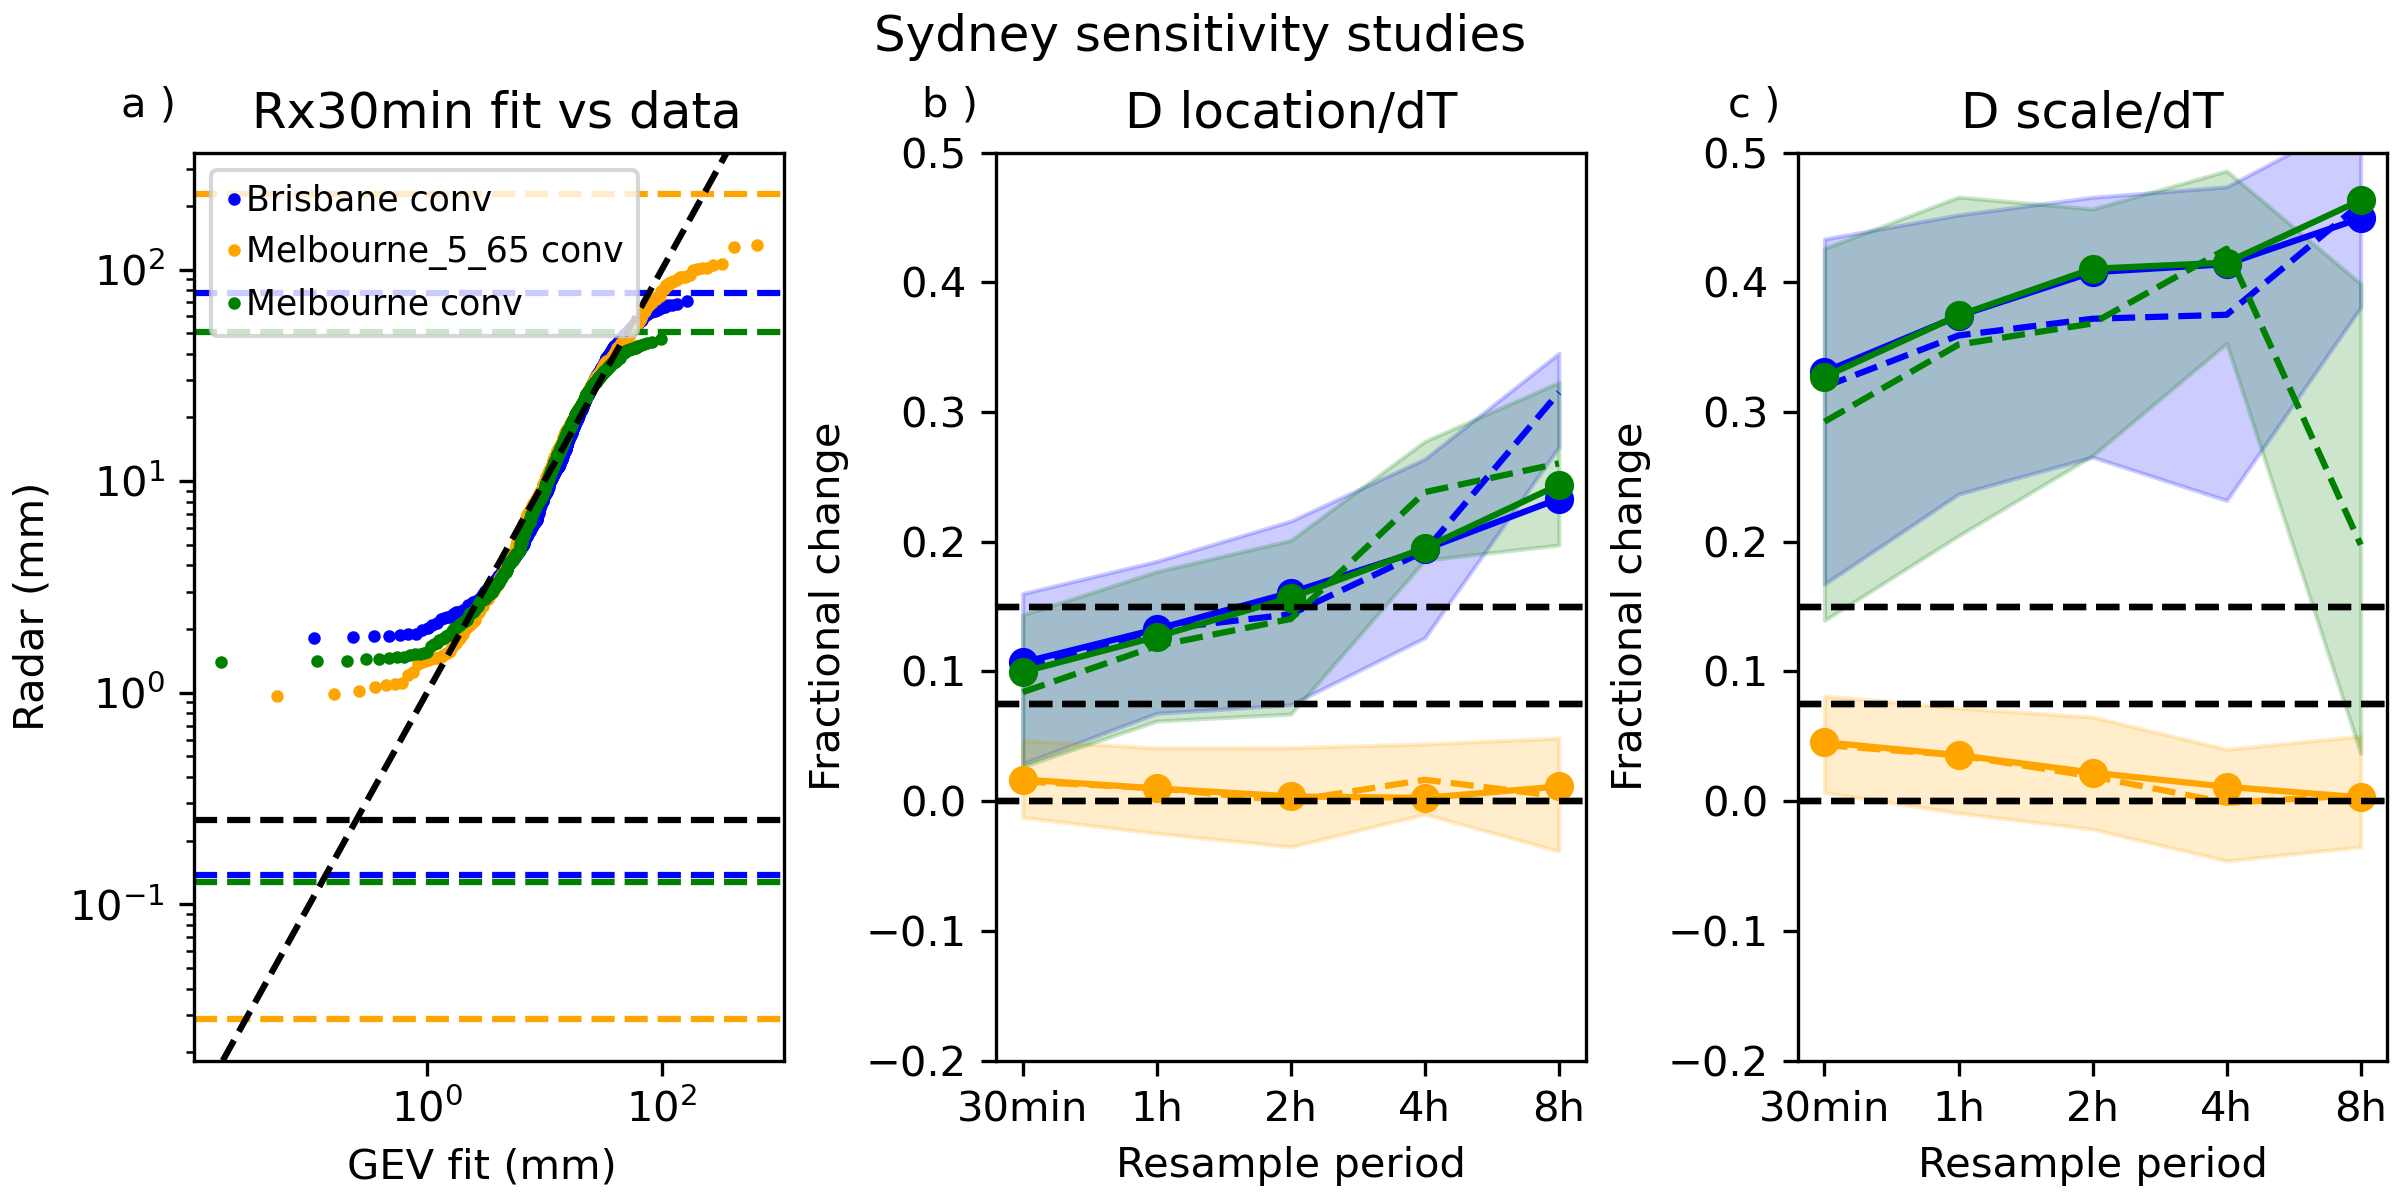
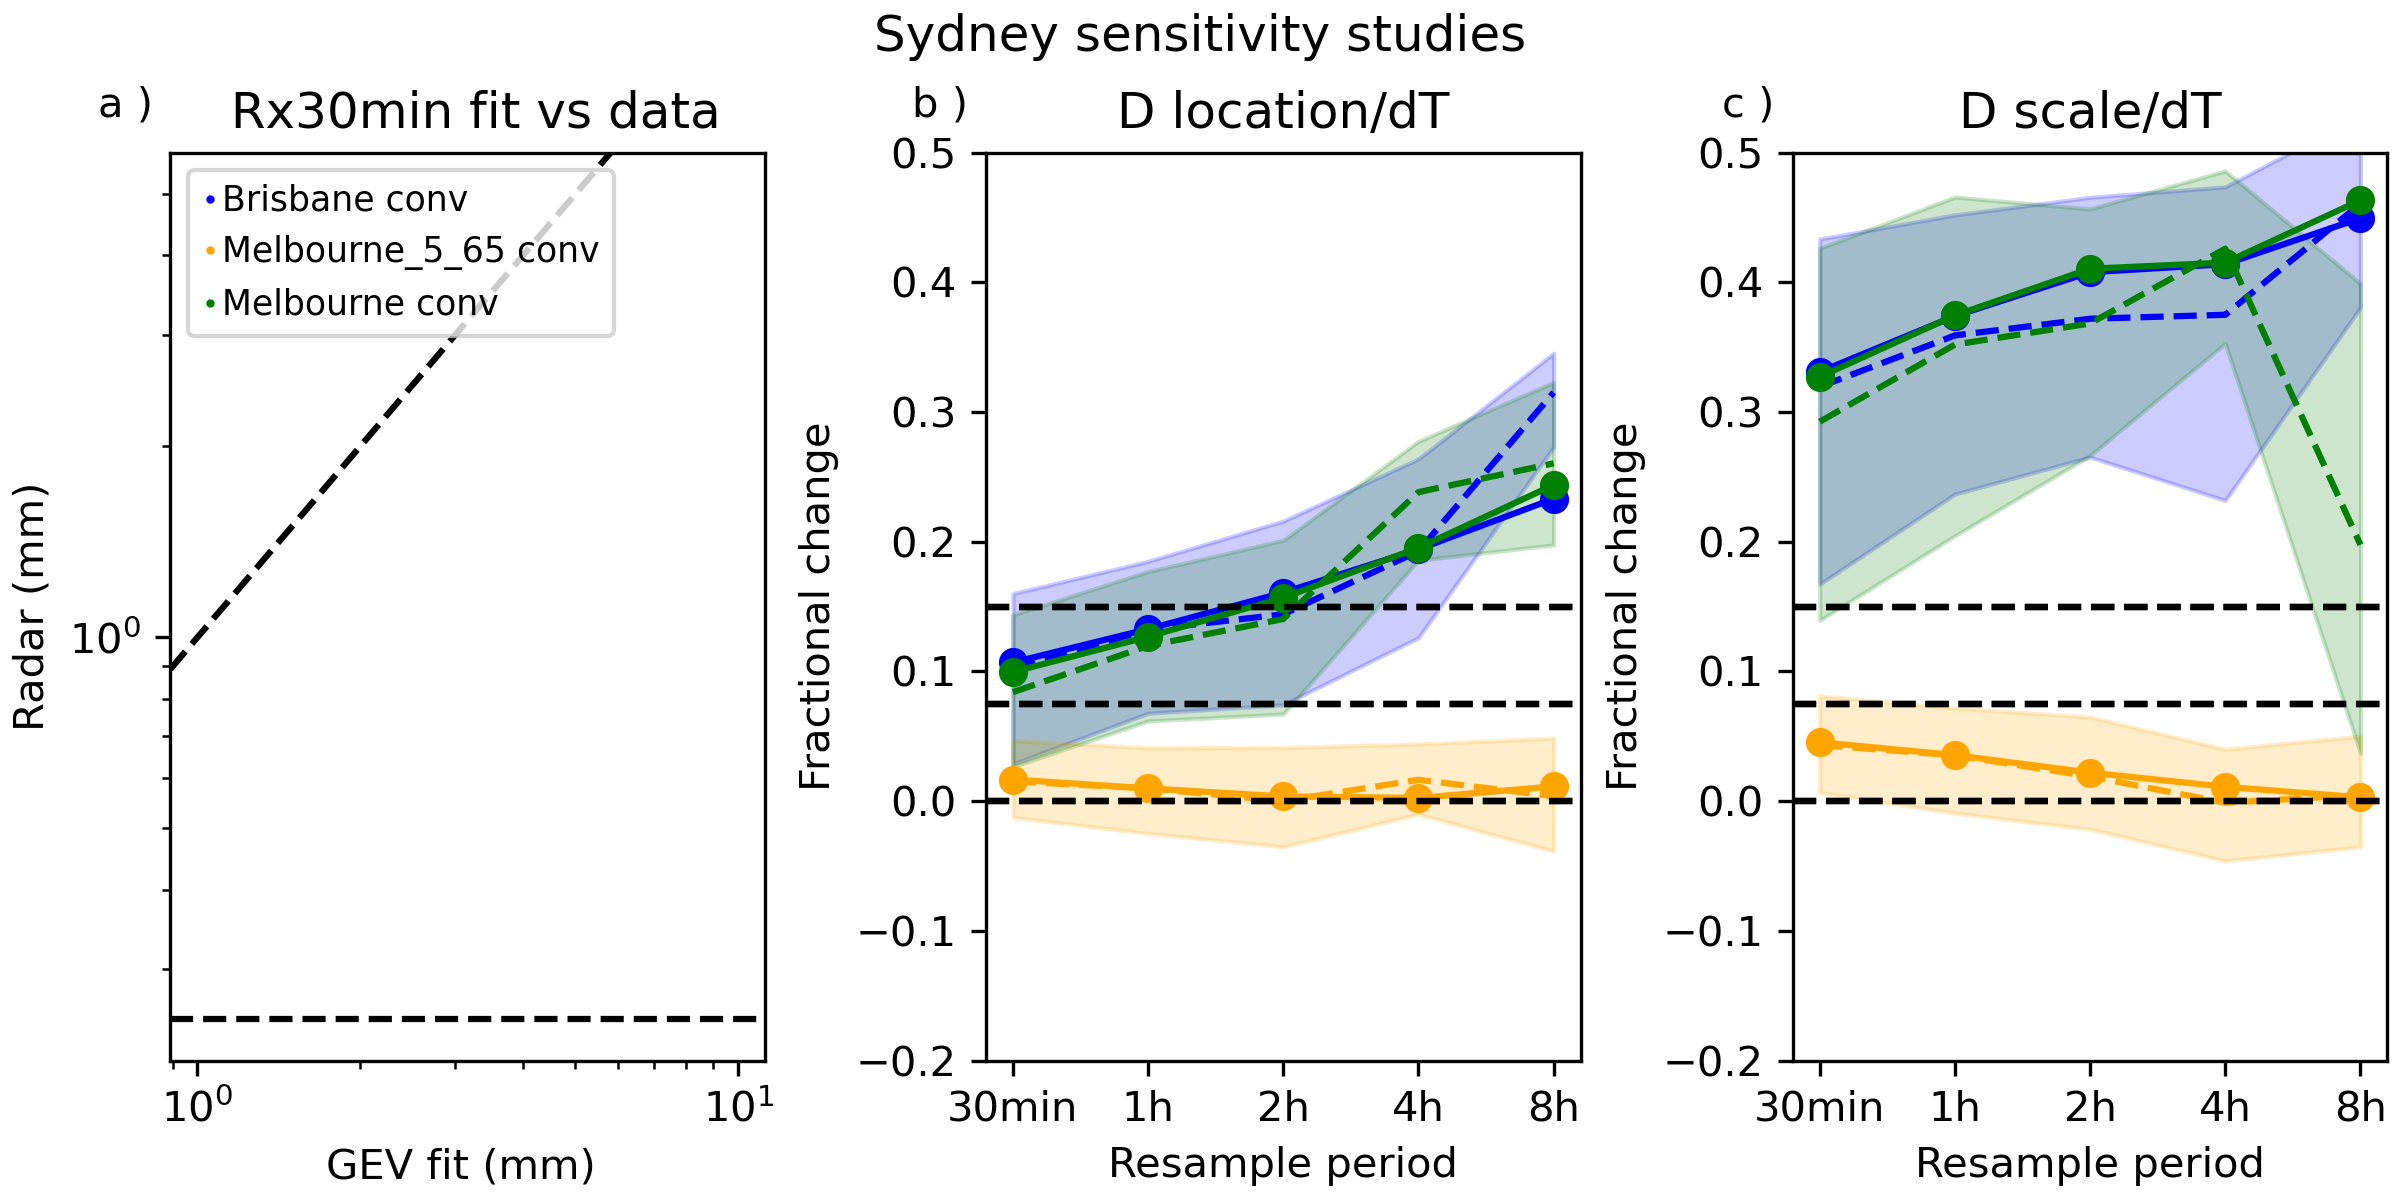
Plotting and a bit of a reorg.

diff --git a/plots/plot_Sydney_sens_studies.py b/plots/plot_Sydney_sens_studies.py
@@ -1,0 +1,92 @@
+# plot sensitivity studies for Sydney.
+# Calibration -- melbourne and brisabne + melbourne calibration with larger dbz range.
+
+import ausLib
+import pathlib
+import xarray
+import matplotlib.pyplot as plt
+import scipy.stats
+import pandas as pd
+import commonLib
+import numpy as np
+from R_python import gev_r
+
+my_logger = ausLib.setup_log(1)
+seas_files = list((ausLib.data_dir / 'processed').glob('Sydney_rain*/seas_mean*_Sydney_rain_*_DJF.nc'))
+seas_mean = {}
+seas_gev_fit = dict()
+gev_t_fit = dict()
+gev_t_fit_bs = dict()
+rain_range = dict()
+recreate_fit = False
+for file in seas_files:
+    name = file.parent.name.replace('Sydney_rain_', '').capitalize() + ' conv'
+    da = xarray.open_dataset(file).max_rain_rate
+    resample_hours = pd.to_timedelta(da.resample_prd) / pd.Timedelta(1, 'h')
+    # and convert it back to a dataarray
+    resample_hours = xarray.DataArray(resample_hours, coords={'resample_prd': da.resample_prd})
+    seas_mean[name] = da * resample_hours
+    # and do a single param fit too all the data..
+    gev_fit_file = file.parent / 'fits' / ('gev_fit_' + file.name)
+    stacked = da.stack(idx=['x', 'y', 'time']).dropna('idx')
+    stacked = stacked.where(stacked > 0.5)
+    seas_gev_fit[name] = gev_r.xarray_gev(stacked, dim='idx',file=gev_fit_file,recreate_fit=recreate_fit)
+    my_logger.info(f'Loaded {name} and fit data')
+
+    # get in the gev t fit data
+    gev_t_file = file.parent / 'fits' / 'gev_fit_temp.nc'
+    ds = xarray.open_dataset(gev_t_file).mean('sample')
+    gev_t_fit[name] = ds.Parameters.load()
+    # and the bootstrap.
+    gev_t_bs_file = file.parent / 'fits' / 'gev_fit_temp_bs.nc'
+    ds = xarray.open_dataset(gev_t_bs_file).mean('sample')
+    gev_t_fit_bs[name] = ds.Parameters.load()
+
+    my_logger.info(f'Loaded {name}')
+
+## now to plot them
+prd = '30min'
+label = commonLib.plotLabel()
+fig, (ax_fit, ax_change_loc, ax_change_sc) = plt.subplots(1, 3, figsize=(8, 4),
+                                                          clear=True, layout='constrained', num='Sydney_sens'
+                                                          )
+
+for (name, parameters), col in zip(seas_mean.items(), ['blue', 'orange', 'green']):
+
+
+    gev = scipy.stats.genextreme(*seas_gev_fit[name].Parameters.sel(parameter=['shape','location', 'scale'],resample_prd=prd))
+    radar_data = seas_mean[name].sel(resample_prd=prd).stack(idx=['x','y','time'])
+    osm, osr = scipy.stats.probplot(radar_data, dist=gev,fit=False)
+    ax_fit.plot(osm[0], osm[1], label=name, ms=2, marker='.', linestyle='None', color=col)
+
+ax_fit.axline((5.0, 5.0), slope=1.0, color='black', linestyle='--')
+ax_fit.axhline(0.5 * float(resample_hours.sel(resample_prd=prd)), color='black', linestyle='--')
+ax_fit.set_xlabel(f'GEV fit (mm) ')
+ax_fit.set_ylabel('Radar (mm)')
+ax_fit.set_xscale('log')
+ax_fit.set_yscale('log')
+ax_fit.set_title(f' Rx{prd} fit vs data')
+ax_fit.legend(loc='upper left', fontsize='small', handletextpad=0.1, handlelength=0.5)
+## now to plot the gev ratios.
+for (name, parameters), col in zip(gev_t_fit.items(), ['blue', 'orange', 'green']):
+    for p, ax_change in zip(['location', 'scale'], [ax_change_loc, ax_change_sc]):
+        dp = f'D{p}_Tanom'
+        ds = parameters.sel(parameter=dp) / parameters.sel(parameter=p)
+        ds_bs = gev_t_fit_bs[name].sel(parameter=dp) / gev_t_fit_bs[name].sel(parameter=p)
+        q = ds_bs.quantile([0.1, 0.9], dim='bootstrap_sample')
+        ax_change.fill_between(q.resample_prd, q.isel(quantile=0), q.isel(quantile=-1), color=col, alpha=0.2)
+        ds_bs.mean('bootstrap_sample').plot(ax=ax_change, color=col, linestyle='--')
+        ds.plot(ax=ax_change, label=name, color=col, marker='o')
+        ax_change.set_title(f'D {p}/dT')
+        ax_change.set_xlabel('Resample period')
+        ax_change.set_ylabel('Fractional change')
+        for v in [0, 0.075, 0.15]:
+            ax_change.axhline(v, color='k', linestyle='--')
+        ax_change.set_ylim(-0.2, 0.5)
+fig.suptitle('Sydney sensitivity studies')
+# add labels
+for ax in [ax_fit, ax_change_loc, ax_change_sc]:
+    label.plot(ax)
+
+fig.show()
+commonLib.saveFig(fig)

diff --git a/plots/plot_gev_fits.py b/plots/plot_gev_fits.py
@@ -21,8 +21,8 @@ uncert_sd_scale = scipy.stats.norm().isf(uncert)  # roughly 5-95% range
 quants = [uncert, 0.5, 1 - uncert]
 # mornington looks weird – need to examine it more carefully. Prob look at events. Some oddities in the fit.
 # so filtering out shapes < -10. I think it is problems with the fit.
-end_name_sens = '_rain_melbourne'  # calibration
-end_name = '_rain_brisbane'
+end_name_sens = '_rain_brisbane'  # calibration
+end_name = '_rain_melbourne'
 
 
 def trim(ds: xarray.Dataset) -> xarray.DataArray:
@@ -151,6 +151,7 @@ for site, ax in axs.items():
     gev_be_sens = best_est_sens[site]
     ds_sens = gev_r.xarray_gev_isf(gev_be_sens.Parameters, pv).drop_sel(resample_prd='8h') * resample_hours
     # drop 8h and convert to accum over period.
+
     #lines = ds.plot.line(x='pvalues', ax=ax, add_legend=False,colors=colors)
 
     gev_bs = gev_r.xarray_gev_isf(bootstrap[site].Parameters, pv) * resample_hours
@@ -186,3 +187,46 @@ fig.legend(lines, sd.resample_prd.values, ncol=2, loc=(0.4, 0.9), fontsize='smal
 fig.suptitle('Return values (mm/h)')
 fig.show()
 commonLib.saveFig(fig)
+
+## plot the parameters for the regions.
+fig, axs = ausLib.std_fig_axs(f'GEV_params', sharex=True, sharey=True)
+for site, ax in axs.items():
+    params = best_est[site].Parameters.drop_sel(resample_prd='8h')
+    params_sens = best_est_sens[site].Parameters.drop_sel(resample_prd='8h')
+    params_bs = bootstrap[site].Parameters.drop_sel(resample_prd='8h')
+    uncert_sd = params_bs.std(dim='bootstrap_sample')
+    for p, m, c in zip(['location', 'scale','shape'], ['o', 'h','*'], ['blue', 'red','orange']):
+        mn = params.sel(parameter=p)
+        mn_sens = params_sens.sel(parameter=p)
+        q_bs = params_bs.sel(parameter=p).quantile(quants,'bootstrap_sample')
+        if p == 'shape':
+            mn = -mn
+            mn_sens = -mn_sens
+            q_bs = -q_bs.reindex(quantile=list(reversed(q_bs['quantile'])) ) # get into Cole's convention.
+            a=ax.twinx()
+            a.set_ylabel('Shape',color=c)
+            a.set_ylim(-0.8,0.8)
+            a.axhline(0.0,linestyle='dotted',color=c)
+        else:
+            a=ax
+            a.set_ylabel('Loc/Scale (mm)')
+            mn = mn*resample_hours
+            mn_sens = mn_sens*resample_hours
+            sd = sd*resample_hours
+            a.set_ylim(0,20.)
+        err = np.abs(q_bs.isel(quantile=[0,-1])-q_bs.sel(quantile=0.5))
+        a.errorbar(mn.resample_prd, mn, yerr=err,
+                    linestyle='--', color=c, capsize=5, elinewidth=2,label=p )
+        a.scatter(mn_sens.resample_prd, mn_sens, s=30, color=c, marker='*')
+        a.set_xlabel('Accum Prd')
+        a.label_outer()
+
+
+    ax.set_title(site)
+
+
+fig.suptitle('Gev Params')
+fig.show()
+commonLib.saveFig(fig)
+
+

diff --git a/plots/plot_hr_area.py b/plots/plot_hr_area.py
@@ -1,0 +1,61 @@
+# plot hour and area of max rain rate.
+# will use the seas_mean data.
+import matplotlib.pyplot as plt
+import xarray
+import ausLib
+import scipy.stats
+import numpy as np
+
+import commonLib
+import pathlib
+import pandas as pd
+
+my_logger = ausLib.setup_log(1)
+end_name_sens = '_rain_brisbane'  # calibration
+end_name = '_rain_melbourne'
+
+time_day=dict()
+time_day_sens=dict()
+day_of_season=dict()
+prd='1h'
+for site in ausLib.site_numbers.keys():
+    name = site + end_name
+    seas_mean = xarray.open_dataset(ausLib.data_dir / f'processed/{name}/seas_mean_{name}_DJF.nc')
+    lon = ausLib.site_info(ausLib.site_numbers[site]).iloc[0].loc['site_lon']
+    t= seas_mean.sel(resample_prd=prd).time_max_rain_rate.stack(idx=['x', 'y', 'time']).dropna('idx').load()
+    time_day[site] = (t.dt.hour + t.dt.minute / 60. +lon/15.)%24 # approx for local solar hour.
+    dates = pd.to_datetime(t)
+    season_year = dates.year - (dates.month != 12)
+    season_start = pd.to_datetime(dict(year=season_year, month=12, day=1))
+
+    day_of_season[site] = ((dates-season_start)/pd.Timedelta(1,'D')).astype(int)# days since 1st of december
+    # sens case
+    name = site + end_name_sens
+    seas_mean = xarray.open_dataset(ausLib.data_dir / f'processed/{name}/seas_mean_{name}_DJF.nc')
+    lon = ausLib.site_info(ausLib.site_numbers[site]).iloc[0].loc['site_lon']
+    t= seas_mean.sel(resample_prd=prd).time_max_rain_rate.stack(idx=['x', 'y', 'time']).dropna('idx').load()
+    time_day_sens[site] = (t.dt.hour + t.dt.minute / 60. +lon/15.)%24 # approx for local solar hour.
+    my_logger.info(f'Loaded {name}')
+
+## now to plot them
+fig, axs = ausLib.std_fig_axs(f'day_hour_dist', sharex=True, sharey=True)
+for site, ax in axs.items():
+    bins,edges,patches=time_day[site].plot.hist(bins=np.arange(0, 24.5, 1), density=True,ax=ax,histtype='step',linewidth=2)
+    mode = int(edges[np.argmax(bins)])
+    time_day_sens[site].plot.hist(bins=np.arange(0, 24.5, 1), density=True, ax=ax, histtype='step',linewidth=2,color='red')
+    ax.set_title(site )
+    ax.set_xlabel('Local Solar Hour')
+    ax.set_ylabel('Probability Density')
+    ax.text(0.1,0.8,f'Peak:{mode:2d}:00' ,transform=ax.transAxes,va='bottom',ha='left')
+    ax.label_outer()
+    ax2=ax.twiny()
+    ax2.set_xlabel('Day of Year',color='green')
+    bins, edges, patches = day_of_season[site].to_xarray().plot.hist(bins=np.arange(0,100,10), density=True, ax=ax2, histtype='step',
+                                                    linewidth=2,color='green')
+    ax2.set_title('')
+    ax2.label_outer()
+fig.suptitle('Hour of Day/Day of Season')
+fig.show()
+commonLib.saveFig(fig)
+
+

diff --git a/plots/plot_resoln_fraction.py b/plots/plot_resoln_fraction.py
@@ -1,0 +1,54 @@
+# plot the sampling resolution and fraction of samples from the seasonal means.
+import ausLib
+import matplotlib.pyplot as plt
+import xarray
+import commonLib
+import numpy as np
+# get in the data first.
+my_logger = ausLib.setup_log(1)
+conversion='_rain_melbourne'
+datasets=dict()
+
+for site in ausLib.site_numbers.keys():
+    name = site + conversion
+    event_file = ausLib.data_dir / f'processed/{name}/seas_mean_{name}_DJF.nc'
+    if not event_file.exists():
+        raise FileNotFoundError(f'No event file for {site} with {event_file}')
+    datasets[site] = xarray.open_dataset(event_file)  # median extreme event
+    my_logger.debug(f'Loaded {site} from {event_file}')
+radar_stns = ausLib.read_radar_file('meta_data/long_radar_stns.csv')
+my_logger.info('Loaded all data')
+
+## now to plot the data.
+fig, axes = ausLib.std_fig_axs(f'resoln_fraction', sharey=True,sharex=True)
+for site, ax in axes.items():
+    sample_resolution = datasets[site].sample_resolution.load()
+    sample_resolution.dt.total_seconds().plot(ax=ax,
+                                              color='k',marker='o',linestyle='None',ms=3)
+    print(site, sample_resolution.time.max().dt.year.values)
+    ax.set_title(site)
+    ax.set_xlabel('Time')
+    ax.set_ylabel('Resolution (s)')
+    ax.tick_params(axis='x', labelsize='small',rotation=45) # set small font!
+    ax.set_xlabel('Year')
+    ax.label_outer()
+    # add on meta-data to show when things change,.
+    records = radar_stns.loc[radar_stns['id'] == ausLib.site_numbers[site]]
+    lim = np.array(axes[site].get_ylim())
+    y = 0.75 * lim[1] + 0.25 * lim[0]
+    for name, r in records.iterrows():
+        x = np.datetime64(r['postchange_start'])
+        axes[site].axvline(x, color='red', linestyle='--')
+        axes[site].text(x, y, r.radar_type, ha='left', va='center', fontsize='x-small', rotation=90)
+    # add second axis for fraction
+    ax2 = ax.twinx()
+    fraction = datasets[site].fraction.load()
+    fraction.plot(ax=ax2,drawstyle='steps-pre',marker='+',linestyle='None',ms=3,color='purple')
+    ax2.set_ylabel('Fraction',color='purple')
+    ax2.set_title('')
+    ax2.label_outer()
+    ax2.set_ylim(0.75,1.05)
+
+fig.suptitle(f'Sampling resolution')
+fig.show()
+commonLib.saveFig(fig)

diff --git a/plot_example_gev.py b/plot_example_gev.py
@@ -1,0 +1,30 @@
+# plot GEV for shapes of -0.5, 0 and 0.5
+
+import matplotlib.pyplot as plt
+import scipy.stats
+import numpy as np
+import commonLib
+from matplotlib.ticker import ScalarFormatter,LogLocator
+
+fig,axs = plt.subplots(nrows=1,ncols=1,figsize=(9,5),num='example_gev',clear=True,layout='constrained')
+shapes = [-1,-0.5,0,0.5,1]
+colors = ['purple','blue','orange','green','brown']
+x = np.geomspace(1e-2,0.5,100)
+for shape,color in zip(shapes,colors):
+    gev = scipy.stats.genextreme(c=shape)
+    axs.plot(1.0/x,gev.isf(x),color=color,label=f'shape={-shape}') # python convention different to Cole book
+axs.set_xscale('log')
+axs.set_yscale('log')
+axs.set_xlabel('Return period ')
+axs.set_ylabel('Return value')
+axs.text(0.95,0.1,transform=axs.transAxes,s=r'$x=y* \text{scale} + \text{loc}$',ha='right',va='bottom')
+# Increase number of ticks on the x-axis
+axs.set_xticks([2,5,10, 20,50, 100])
+axs.get_xaxis().set_major_formatter(ScalarFormatter())
+
+axs.set_yticks(np.array([2,5,10, 20,50, 100])/10)
+axs.get_yaxis().set_major_formatter(ScalarFormatter())
+
+axs.legend()
+fig.show()
+commonLib.saveFig(fig)

diff --git a/plots/README.md b/plots/README.md
@@ -1,0 +1,4 @@
+# Scripts to make plots for paper.
+
+1) plot_gev_fits.py -- plots the GEV parameters and the scale/location sensitivities.
+2) plot_resoln_fraction.py -- plots the sampling frequency and fraction of data present in a season. 
